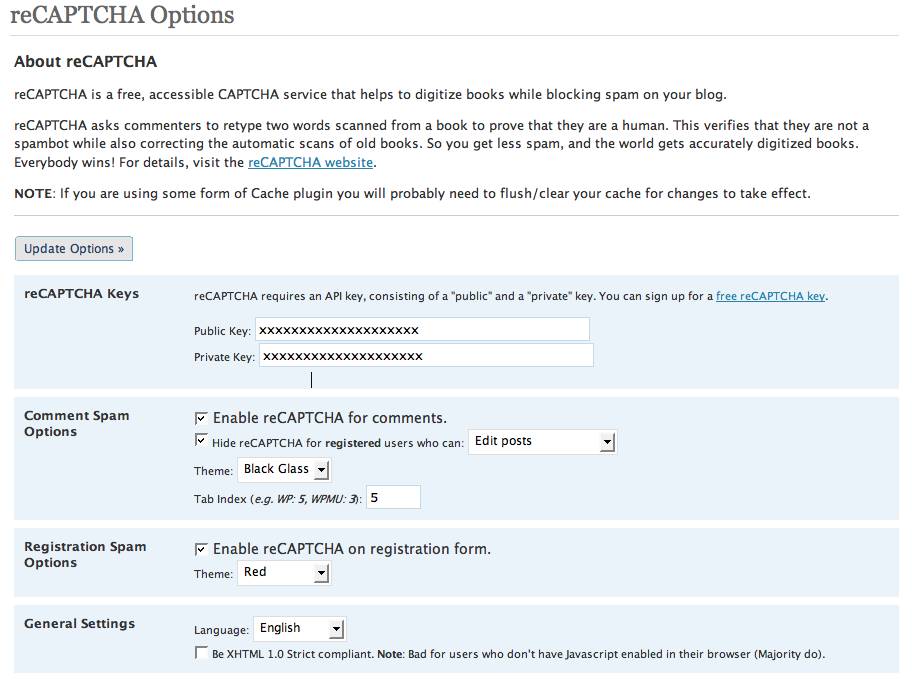
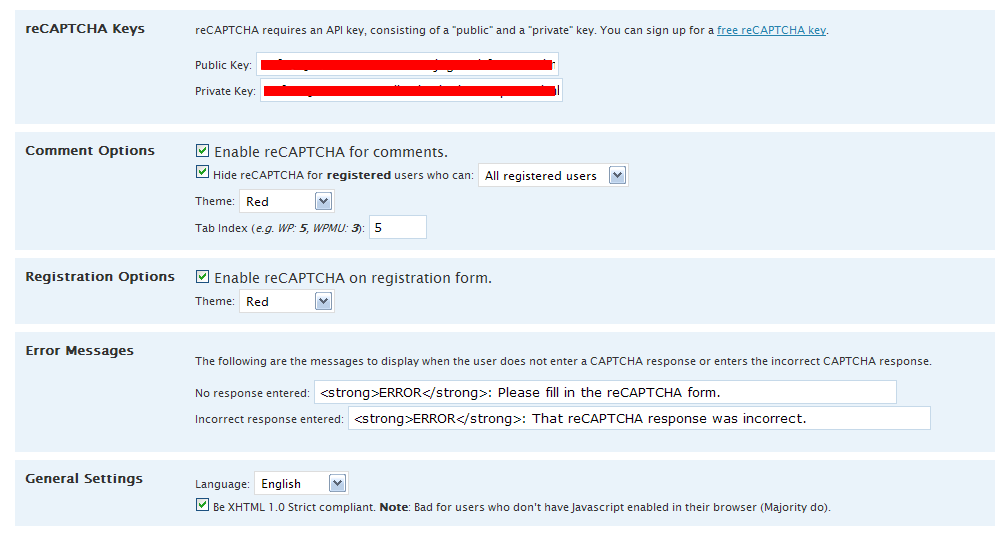
Freeze for 2.9.2
git-svn-id: http://svn.wp-plugins.org/wp-recaptcha/trunk@73139 b8457f37-d9ea-0310-8a92-e5e31aec5664

diff --git a/wp-recaptcha.php b/wp-recaptcha.php
@@ -145,14 +145,16 @@ COMMENT_FORM;
          <?php echo $format . recaptcha_wp_get_html($_GET['rerror'], $use_ssl); ?>
    		<?php }
 		
-		else
+		else {
+         echo '<hr style="clear: both; margin-bottom: 1.5em; border: 0; border-top: 1px solid #999; height: 1px;" />';
          echo $format . recaptcha_wp_get_html($_GET['rerror'], $use_ssl);
+      }
    }
 }
 
 // Hook the display_recaptcha function into WordPress
 if ($wpmu != 1)
-   add_action('register_form', 'display_recaptcha', -1);
+   add_action('register_form', 'display_recaptcha');
 else
    add_action('signup_extra_fields', 'display_recaptcha');
 
@@ -161,7 +163,7 @@ function check_recaptcha() {
 	global $recaptcha_opt, $errors;
 	
    if (empty($_POST['recaptcha_response_field']))
-		$errors['blank_captcha'] = 'Please complete the reCAPTCHA.';
+		$errors['blank_captcha'] = $recaptcha_opt['error_blank'];
    
    else {
    	$response = recaptcha_check_answer($recaptcha_opt['privkey'],
@@ -171,7 +173,7 @@ function check_recaptcha() {
 
    	if (!$response->is_valid)
    		if ($response->error == 'incorrect-captcha-sol')
-   				$errors['captcha_wrong'] = 'That reCAPTCHA was incorrect.';
+   				$errors['captcha_wrong'] = $recaptcha_opt['error_incorrect'];
    }
 }
 
@@ -180,7 +182,7 @@ function check_recaptcha_new($errors) {
 	global $recaptcha_opt;
 	
    if (empty($_POST['recaptcha_response_field']) || $_POST['recaptcha_response_field'] == '') {
-		$errors->add('blank_captcha', 'Please complete the reCAPTCHA.');
+		$errors->add('blank_captcha', $recaptcha_opt['error_blank']);
 		return $errors;
    }
    
@@ -191,7 +193,7 @@ function check_recaptcha_new($errors) {
 
 	if (!$response->is_valid)
 		if ($response->error == 'incorrect-captcha-sol')
-			$errors->add('captcha_wrong', 'That reCAPTCHA was incorrect.');
+			$errors->add('captcha_wrong', $recaptcha_opt['error_incorrect']);
    
    return $errors;
 }
@@ -206,7 +208,7 @@ function check_recaptcha_wpmu($result) {
    
    // no text entered
    if (empty($_POST['recaptcha_response_field']) || $_POST['recaptcha_response_field'] == '') {
-		$result['errors']->add('blank_captcha', 'Please complete the reCAPTCHA.');
+		$result['errors']->add('blank_captcha', $recaptcha_opt['error_blank']);
 		return $result;
    }
    
@@ -218,8 +220,8 @@ function check_recaptcha_wpmu($result) {
    // incorrect CAPTCHA
 	if (!$response->is_valid)
 		if ($response->error == 'incorrect-captcha-sol') {
-			$result['errors']->add('captcha_wrong', 'That reCAPTCHA was incorrect.');
-         echo "<div class=\"error\">Incorrect CAPTCHA</div>";
+			$result['errors']->add('captcha_wrong', $recaptcha_opt['error_incorrect']);
+         echo "<div class=\"error\">". $recaptcha_opt['error_incorrect'] . "</div>";
 		}
    
    return $result;
@@ -264,6 +266,8 @@ $option_defaults = array (
    're_xhtml' => '0', // whether or not to be XHTML 1.0 Strict compliant
    'mh_replace_link' => '', // name the link something else
    'mh_replace_title' => '', // title of the link
+   'error_blank' => '<strong>ERROR</strong>: Please fill in the reCAPTCHA form.', // the message to display when the user enters no CAPTCHA response
+   'error_incorrect' => '<strong>ERROR</strong>: That reCAPTCHA response was incorrect.', // the message to display when the user enters the incorrect CAPTCHA response
 );
 
 // install the defaults
@@ -424,7 +428,7 @@ function recaptcha_comment_form() {
    else {
 		// Did the user fail to match the CAPTCHA? If so, let them know
 		if ($_GET['rerror'] == 'incorrect-captcha-sol')
-		echo "<p class=\"recaptcha-error\">Incorrect CAPTCHA. Please try again.</p>";
+		echo "<p class=\"recaptcha-error\">" . $recaptcha_opt['error_incorrect'] . "</p>";
    
 		//modify the comment form for the reCAPTCHA widget
 		$recaptcha_js_opts = <<<OPTS
@@ -604,6 +608,8 @@ function recaptcha_wp_options_subpanel() {
 		're_xhtml' => '0',
       'mh_replace_link' => '',
       'mh_replace_title' => '',
+      'error_blank' => '<strong>ERROR</strong>: Please fill in the reCAPTCHA form.',
+      'error_incorrect' => '<strong>ERROR</strong>: That reCAPTCHA response was incorrect.',
 		);
 
 	if ($wpmu != 1)
@@ -630,6 +636,8 @@ function recaptcha_wp_options_subpanel() {
 		're_xhtml' => $_POST['re_xhtml'],
       'mh_replace_link' => $_POST['mh_replace_link'],
       'mh_replace_title' => $_POST['mh_replace_title'],
+      'error_blank' => $_POST['error_blank'],
+      'error_incorrect' => $_POST['error_incorrect'],
 		);
 	// save updated options
 	if ($wpmu == 1)
@@ -758,6 +766,23 @@ function recaptcha_dropdown_capabilities($select_name, $checked_value="") {
 			<?php } ?>
 		</td>
 	</tr>
+   <tr valign="top">
+      <th scope="row">Error Messages</th>
+         <td>
+            <p>The following are the messages to display when the user does not enter a CAPTCHA response or enters the incorrect CAPTCHA response.</p>
+            <!-- Error Messages -->
+            <p class="re-keys">
+               <!-- Blank -->
+      			<label class="which-key" for="error_blank">No response entered:</label>
+      			<input name="error_blank" id="error_blank" size="80" value="<?php echo $optionarray_def['error_blank']; ?>" />
+      			<br />
+      			<!-- Incorrect -->
+      			<label class="which-key" for="error_incorrect">Incorrect response entered:</label>
+      			<input name="error_incorrect" id="error_incorrect" size="80" value="<?php echo $optionarray_def['error_incorrect']; ?>" />
+      		</p>
+         </td>
+      </th>
+   </tr>
 	 <tr valign="top">
 			<th scope="row">General Settings</th>
 			<td>
